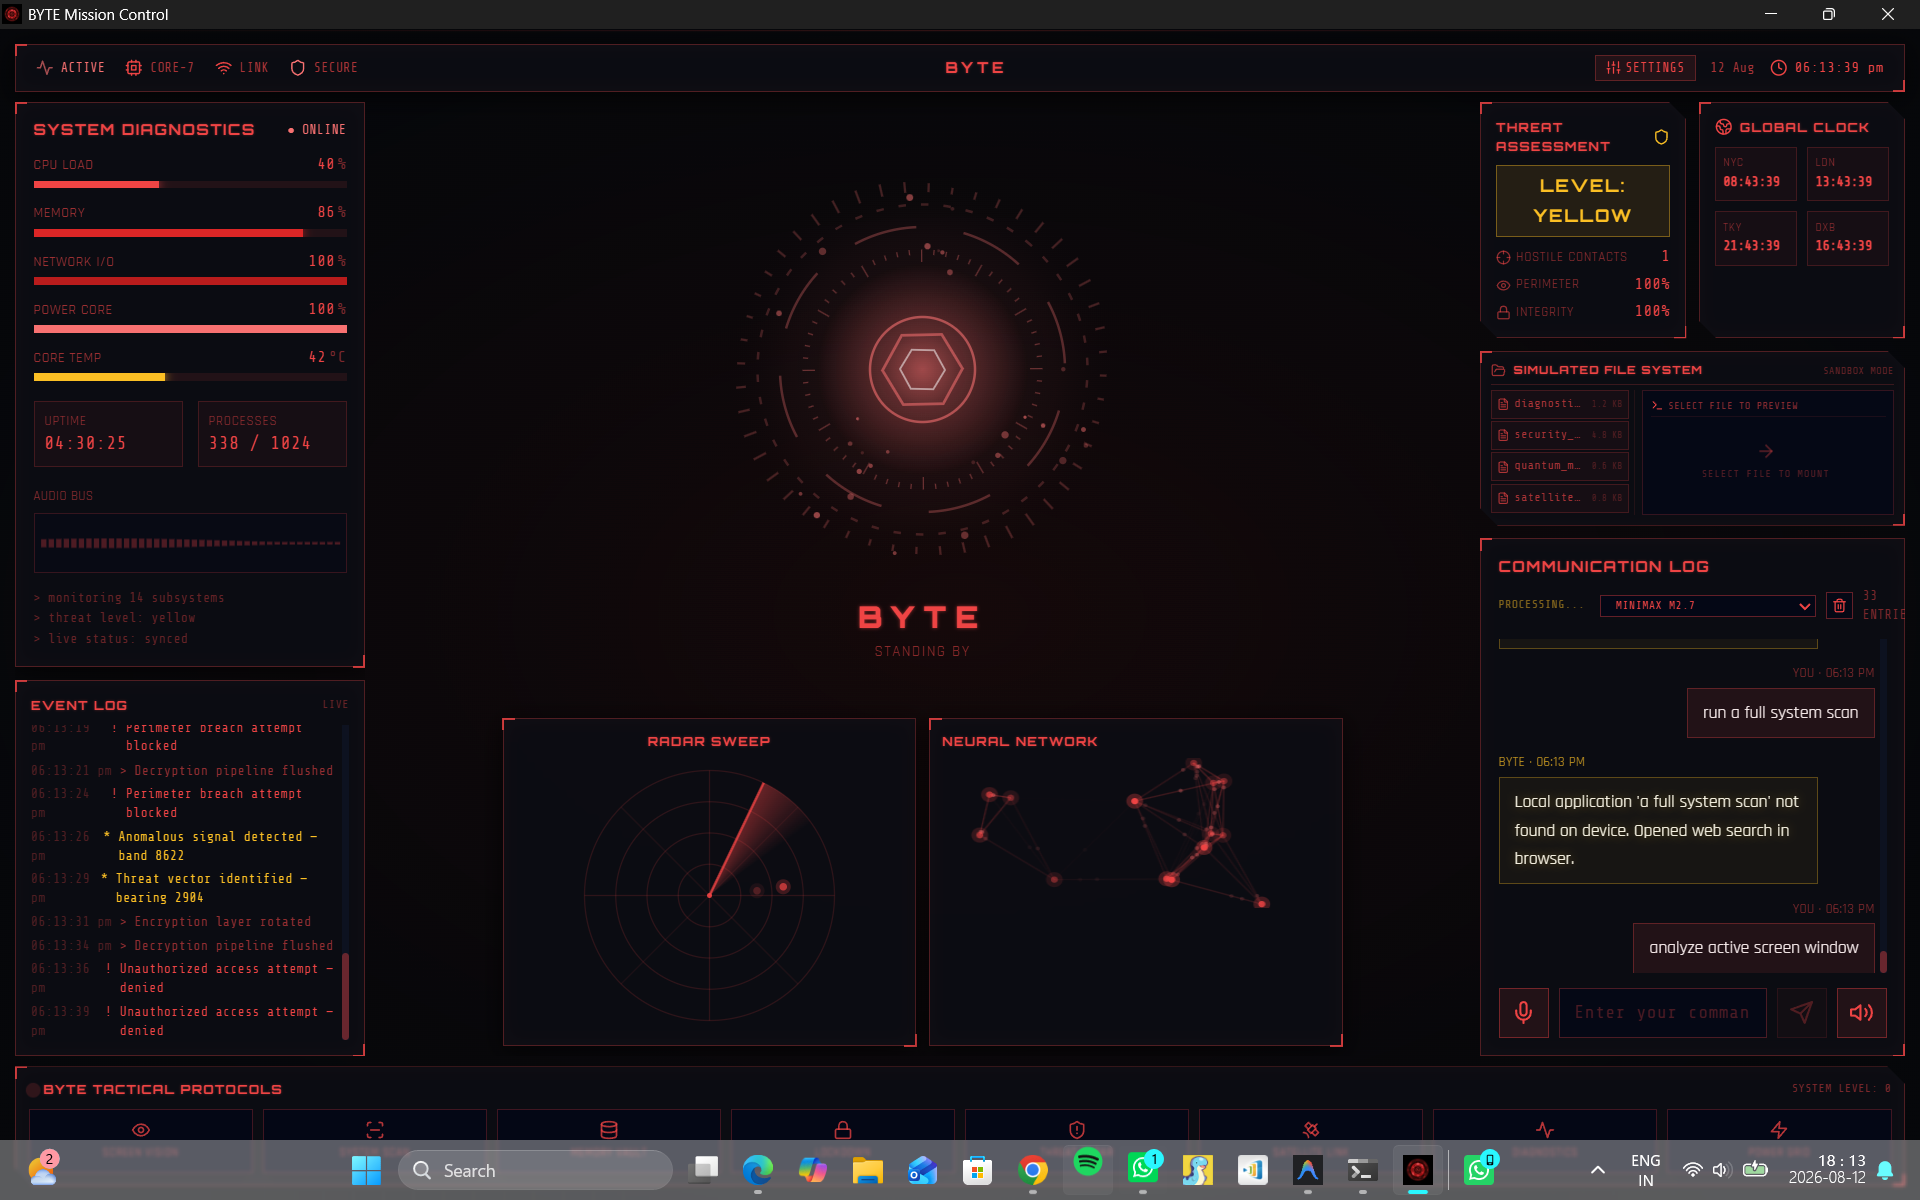
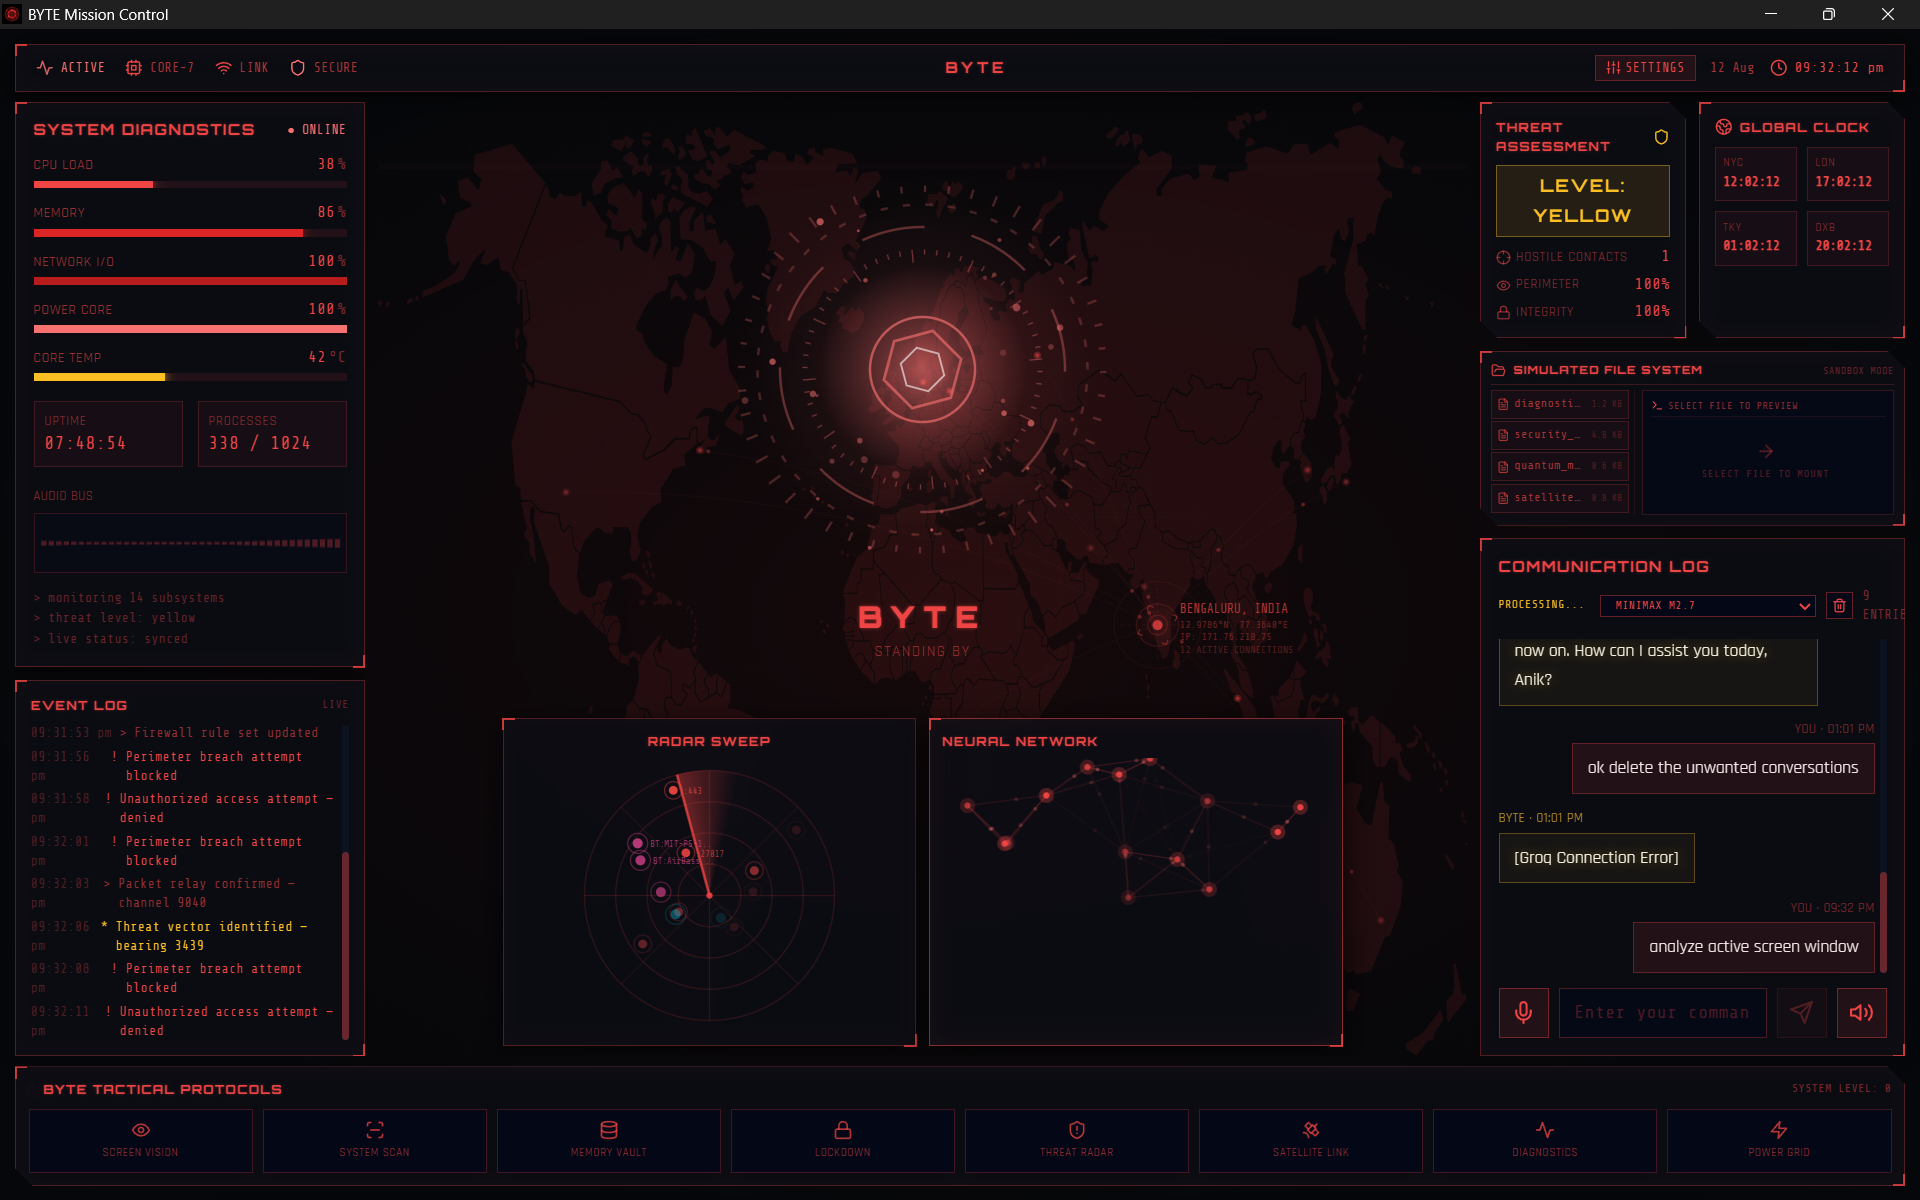
style: increase world map visibility opacity to 0.35

diff --git a/frontend/src/components/WorldMapBackground.tsx b/frontend/src/components/WorldMapBackground.tsx
@@ -172,8 +172,8 @@ export function WorldMapBackground() {
       // --- Draw Realistic High-Definition World Map ---
       if (mapImageRef.current) {
         ctx.save();
-        // Set slightly lower opacity for a subtle tactical background look
-        ctx.globalAlpha = 0.18;
+        // Set slightly higher opacity for better visibility
+        ctx.globalAlpha = 0.35;
         ctx.drawImage(mapImageRef.current, 0, 0, w, h);
         ctx.globalCompositeOperation = 'source-in';
         ctx.fillStyle = 'rgb(239, 68, 68)';
